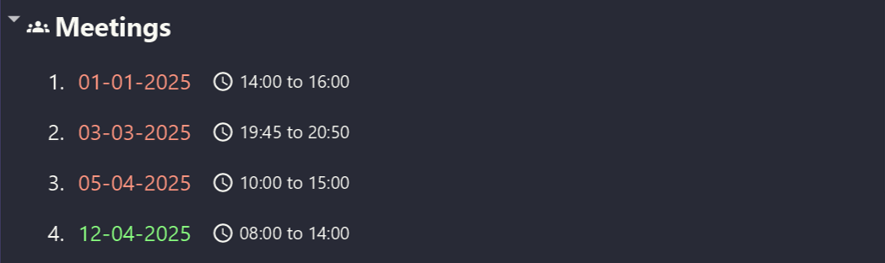
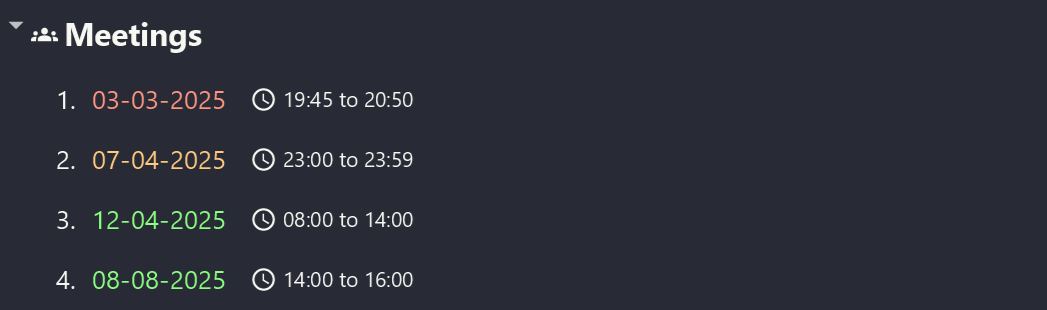
Update UG to prepare for v1.6 release
Let's,
* fix the ToC
* update the images
* change email of person add example from u.nus.com to u.nus email
* change addressbook.json to teamsync.json
* standardize the command format and command summary

Let's make the following functional code change,
* update data file naming

diff --git a/src/main/java/syncsquad/teamsync/model/UserPrefs.java b/src/main/java/syncsquad/teamsync/model/UserPrefs.java
@@ -14,7 +14,7 @@ import syncsquad.teamsync.commons.core.GuiSettings;
 public class UserPrefs implements ReadOnlyUserPrefs {
 
     private GuiSettings guiSettings = new GuiSettings();
-    private Path addressBookFilePath = Paths.get("data" , "addressbook.json");
+    private Path addressBookFilePath = Paths.get("data" , "teamsync.json");
 
     /**
      * Creates a {@code UserPrefs} with default values.

diff --git a/docs/UserGuide.md b/docs/UserGuide.md
@@ -91,9 +91,11 @@ Indicates critical warnings or large-scale irreversible changes. Always read the
     - [Deleting a meeting](#deleting-a-meeting-meeting-delete)
   - [General Commands](#general-commands)
     - [Viewing help](#viewing-help--help)
-    - [Changing week displayed](#changing-week-displayed-showdate)
+    - [Changing the week displayed](#changing-the-week-displayed-showdate)
     - [Clearing all data](#clearing-all-data--clear)
     - [Exiting TeamSync](#exiting-teamsync--exit)
+- [Saving the Data](#saving-the-data)
+  - [Editing the Data File](#editing-the-data-file)
 - [Command Summary](#command-summary)
   - [Teammate Commands](#teammate-commands-1)
   - [Module Commands](#module-commands-1)
@@ -148,9 +150,12 @@ Click on the <span style="color : #b9b9be">▶</span> or <span style="color : #b
 
 ![Meeting View](images/MeetingView.png)
 
-The meeting view contains the timing of all your meetings, organised chronologically. Meetings that have passed are highlighted in red, while upcoming ones are marked in green.
+The meeting view displays all your meetings in chronological order, along with their scheduled times.
 
-[//]: TODO: Change colour to orange
+To help you quickly identify them, meetings are colour-coded as follows:
+* <span style="color : red">Red</span> — Meetings that occurred before today
+* <span style="color : goldenrod">Yellow</span> — Meetings happening today
+* <span style="color : green">Green</span> — Meetings scheduled for future dates
 
 #### <a href="#table-of-contents" class="head">Timetable View</a>
 
@@ -268,7 +273,7 @@ Adds a teammate to TeamSync.
 A teammate can have any number of tags and modules (including 0).
 </div>
 
-**Example**: `person add -n John Doe -p 12345678 -e johndoe@u.nus.com -a RC4 -t Backend -m CS2101 Thu 12:00 15:00 -m CS2103T Fri 16:00 18:00`
+**Example**: `person add -n John Doe -p 12345678 -e johndoe@u.nus.edu -a RC4 -t Backend -m CS2101 Thu 12:00 15:00 -m CS2103T Fri 16:00 18:00`
 
 Adds a person with the following information to TeamSync:<br>
 **Name**: `John Doe`<br>
@@ -343,7 +348,7 @@ Deleting a teammate is **irreversible**!
 
 Finds teammates in TeamSync whose names contain any of the specified `KEYWORDS`.
 
-**Format**: `person find KEYWORD [KEYWORD]...`
+**Format**: `person find KEYWORD [MORE_KEYWORDS]…`
 
 <div markdown="1" class="alert alert-info">:information_source: **Note**
 
@@ -519,7 +524,7 @@ Opens a help window displaying a summary of all the commands in TeamSync.
 
 **Example**: `help`
 
-#### <a href="#table-of-contents" class="head">Changing week displayed: `showdate`</a>
+#### <a href="#table-of-contents" class="head">Changing the week displayed: `showdate`</a>
 
 Changes the week displayed in the timetable view in TeamSync.
 
@@ -563,14 +568,12 @@ Exits TeamSync.
 TeamSync data is saved automatically after executing any command that changes the data. There is no need to save manually.
 
 ### <a href="#table-of-contents" class="head">Editing the Data File</a>
-TeamSync data is saved as a [JSON](#json) file. Advanced users are welcome to update the data directly by editing `addressbook.json` located in the `data` subfolder of TeamSync's [home folder](#home-folder).
-
-[//]: TODO: CHANGE IF ADDRESSBOOK.JSON CHANGES)
+TeamSync data is saved as a [JSON](#json) file. Advanced users are welcome to update the data directly by editing `teamsync.json` located in the `data` subfolder of TeamSync's [home folder](#home-folder).
 
 <div markdown="1" class="alert alert-danger">:warning: **Danger**<br><br>
-**It is strongly recommended to make a backup of `addressbook.json` before editing it.**
+**It is strongly recommended to make a backup of `teamsync.json` before editing it.**
 
-If your edits to `addressbook.json` corrupts it and TeamSync is unable to load the data, **TeamSync will discard all data** and start with an empty data file at the next run.
+If your edits to `teamsync.json` corrupts it and TeamSync is unable to load the data, **TeamSync will discard all data** and start with an empty data file at the next run.
 
 Furthermore, **certain edits can cause TeamSync to behave in unexpected ways**.
 
@@ -583,12 +586,12 @@ Therefore, **edit the file only if you are confident** that you can update it co
 
 | Action                    | Format                                                                          | Example                                                                                                  |
 |---------------------------|---------------------------------------------------------------------------------|----------------------------------------------------------------------------------------------------------|
-| **Add a teammate**        | `person add -n NAME -p PHONE_NUMBER -e EMAIL -a ADDRESS [-t TAG]… [-m MODULE]…` | `person add -n John Doe -p 12345678 -e johndoe@u.nus.com -a RC4 -t Backend -m CS2101 Thu 12:00 15:00 -m CS2103T Fri 16:00 18:00` |
+| **Add a teammate**        | `person add -n NAME -p PHONE_NUMBER -e EMAIL -a ADDRESS [-t TAG]… [-m MODULE]…` | `person add -n John Doe -p 12345678 -e johndoe@u.nus.edu -a RC4 -t Backend -m CS2101 Thu 12:00 15:00 -m CS2103T Fri 16:00 18:00` |
 | **Edit a teammate**       | `person edit INDEX [-n NAME] [-p PHONE] [-e EMAIL] [-a ADDRESS] [-t TAG]…`      | `person edit 1 -p 87654321 -e newmail@u.nus.com -t`                                                       |
 | **Delete a teammate**     | `person delete INDEX`                                                           | `person delete 1`                                                                                        |
-| **Search for a teammate** | `person find KEYWORD [MORE_KEYWORDS]`                                           | `person find alex david`                                                                                 |
+| **Search for a teammate** | `person find KEYWORD [MORE_KEYWORDS]…`                                           | `person find alex david`                                                                                 |
 | **List all teammates**    | `person list`                                                                   | `person list`                                                                                            |
-| **Export a teammate**     | `person export`                                                                 | `person export 1`                                                                                        |
+| **Export a teammate**     | `person export INDEX`                                                           | `person export 1`                                                                                        |
 
 #### <a href="#table-of-contents" class="head">Module Commands</a>
 
@@ -606,12 +609,12 @@ Therefore, **edit the file only if you are confident** that you can update it co
 
 #### <a href="#table-of-contents" class="head">General Commands</a>
 
-| Action                    | Format          | Example               |
-|---------------------------|-----------------|-----------------------|
-| **View help**             | `help`          | `help`                |
-| **Change week displayed** | `showdate DATE` | `showdate 04-04-2025` |
-| **Clear all data**        | `clear`         | `clear`               |
-| **Exit TeamSync**         | `exit`          | `exit`                |
+| Action                        | Format          | Example               |
+|-------------------------------|-----------------|-----------------------|
+| **View help**                 | `help`          | `help`                |
+| **Change the week displayed** | `showdate DATE` | `showdate 04-04-2025` |
+| **Clear all data**            | `clear`         | `clear`               |
+| **Exit TeamSync**             | `exit`          | `exit`                |
 
 ## <a href="#table-of-contents" class="head">Troubleshooting</a>
 
